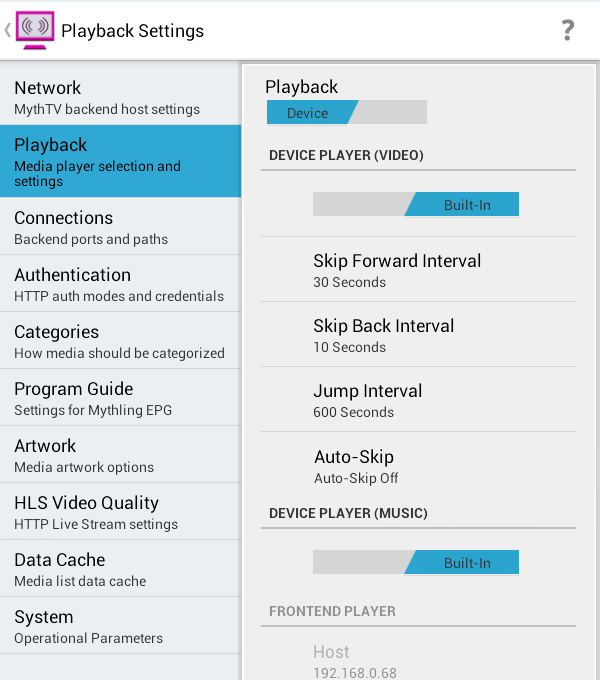
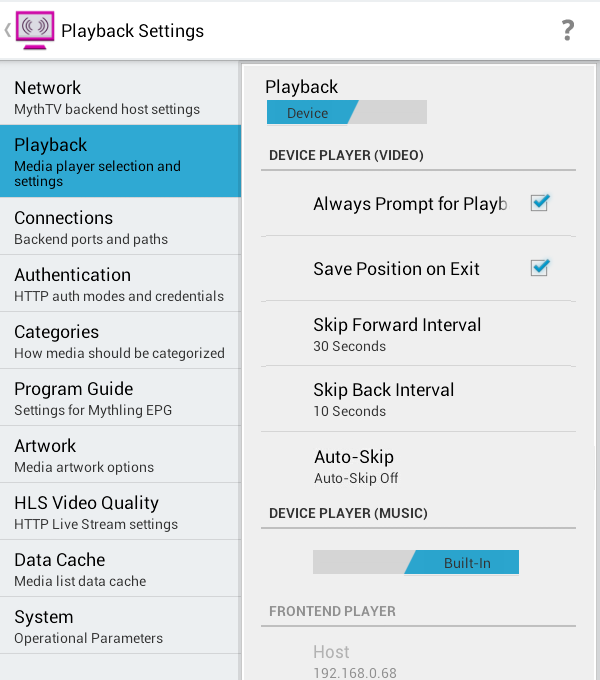
docs

diff --git a/help.html b/help.html
@@ -49,8 +49,10 @@
           <div class="help_text">
             <p>1. <span class="help_step">Network Settings</span></p>
             <p>Definitely start with an internal network.  For that you'll need to specify your mythbackend machine's host name or IP address.</p>
-            <p>When you decide to set up external network access, then here you will also enter the externally-available host information.
-            There are more details about this on the <a href="https://github.com/oakesville/mythling/wiki/External-Network-Access">Mythling Wiki on GitHub</a>.
+            <p>To make sure your MythTV settings are friendly for Mythling access, check out 
+            the <a href="https://github.com/oakesville/mythling/wiki">Setup Guide</a> on the Mythling GitHub wiki site.</p>
+            <p>When you decide to enable external network access, then you can revisit Network Settings to enter your externally-available host information.
+            There are more details about this on the wiki's <a href="https://github.com/oakesville/mythling/wiki/External-Network-Access">External Access</a> page.
           </div>
         </div>
         <div class="help_item">
@@ -59,12 +61,21 @@
             alt="Playback Settings" />
           <div class="help_text">
             <p>2. <span class="help_step">Playback Settings</span></p>
-            <p>If you choose to play media on your Device using Mythling's built-in music and video player, 
-            then no further configuration is required in Playback Settings.</p>
+            <p>If you choose to play media on your device using Mythling's built-in music and video players, 
+            then no further configuration is needed in Playback Settings.</p>
             <p>For playback on a MythTV frontend, Mythling uses either the <a href="http://www.mythtv.org/wiki/Frontend_Service">MythTV Frontend Service</a> 
             or the <a href="http://www.mythtv.org/wiki/Frontend_control_socket">Frontend Control Socket</a> interface (depending on the selected media type).
             So for frontend playback you'll need to specify the mythfrontend host name or IP address, along with the service port and socket control port.
-            The frontend port and IP values are remembered, so you can readily switch back and forth between frontend and device playback.
+            This information is remembered, so you can readily switch back and forth between frontend and device playback.</p>
+            <p style="margin-bottom:2px;">
+              <span style="font-weight:bold;">Note:</span> When you first play video on your device, you'll see a dialog like this:
+            </p>
+            <img src="images/screenshots/video_playback_dialog.png"
+              style="width:40%;margin:0;"
+              alt="Video Playback Dialog" />
+            <p style="margin-top:0;"> If you choose "Always do this..." and later change your mind, you can unremember all selections by 
+              checking the "Always Prompt for Playback Options" box under Playback settings.
+            </p>
           </div>
         </div>
         <div class="help_item">
